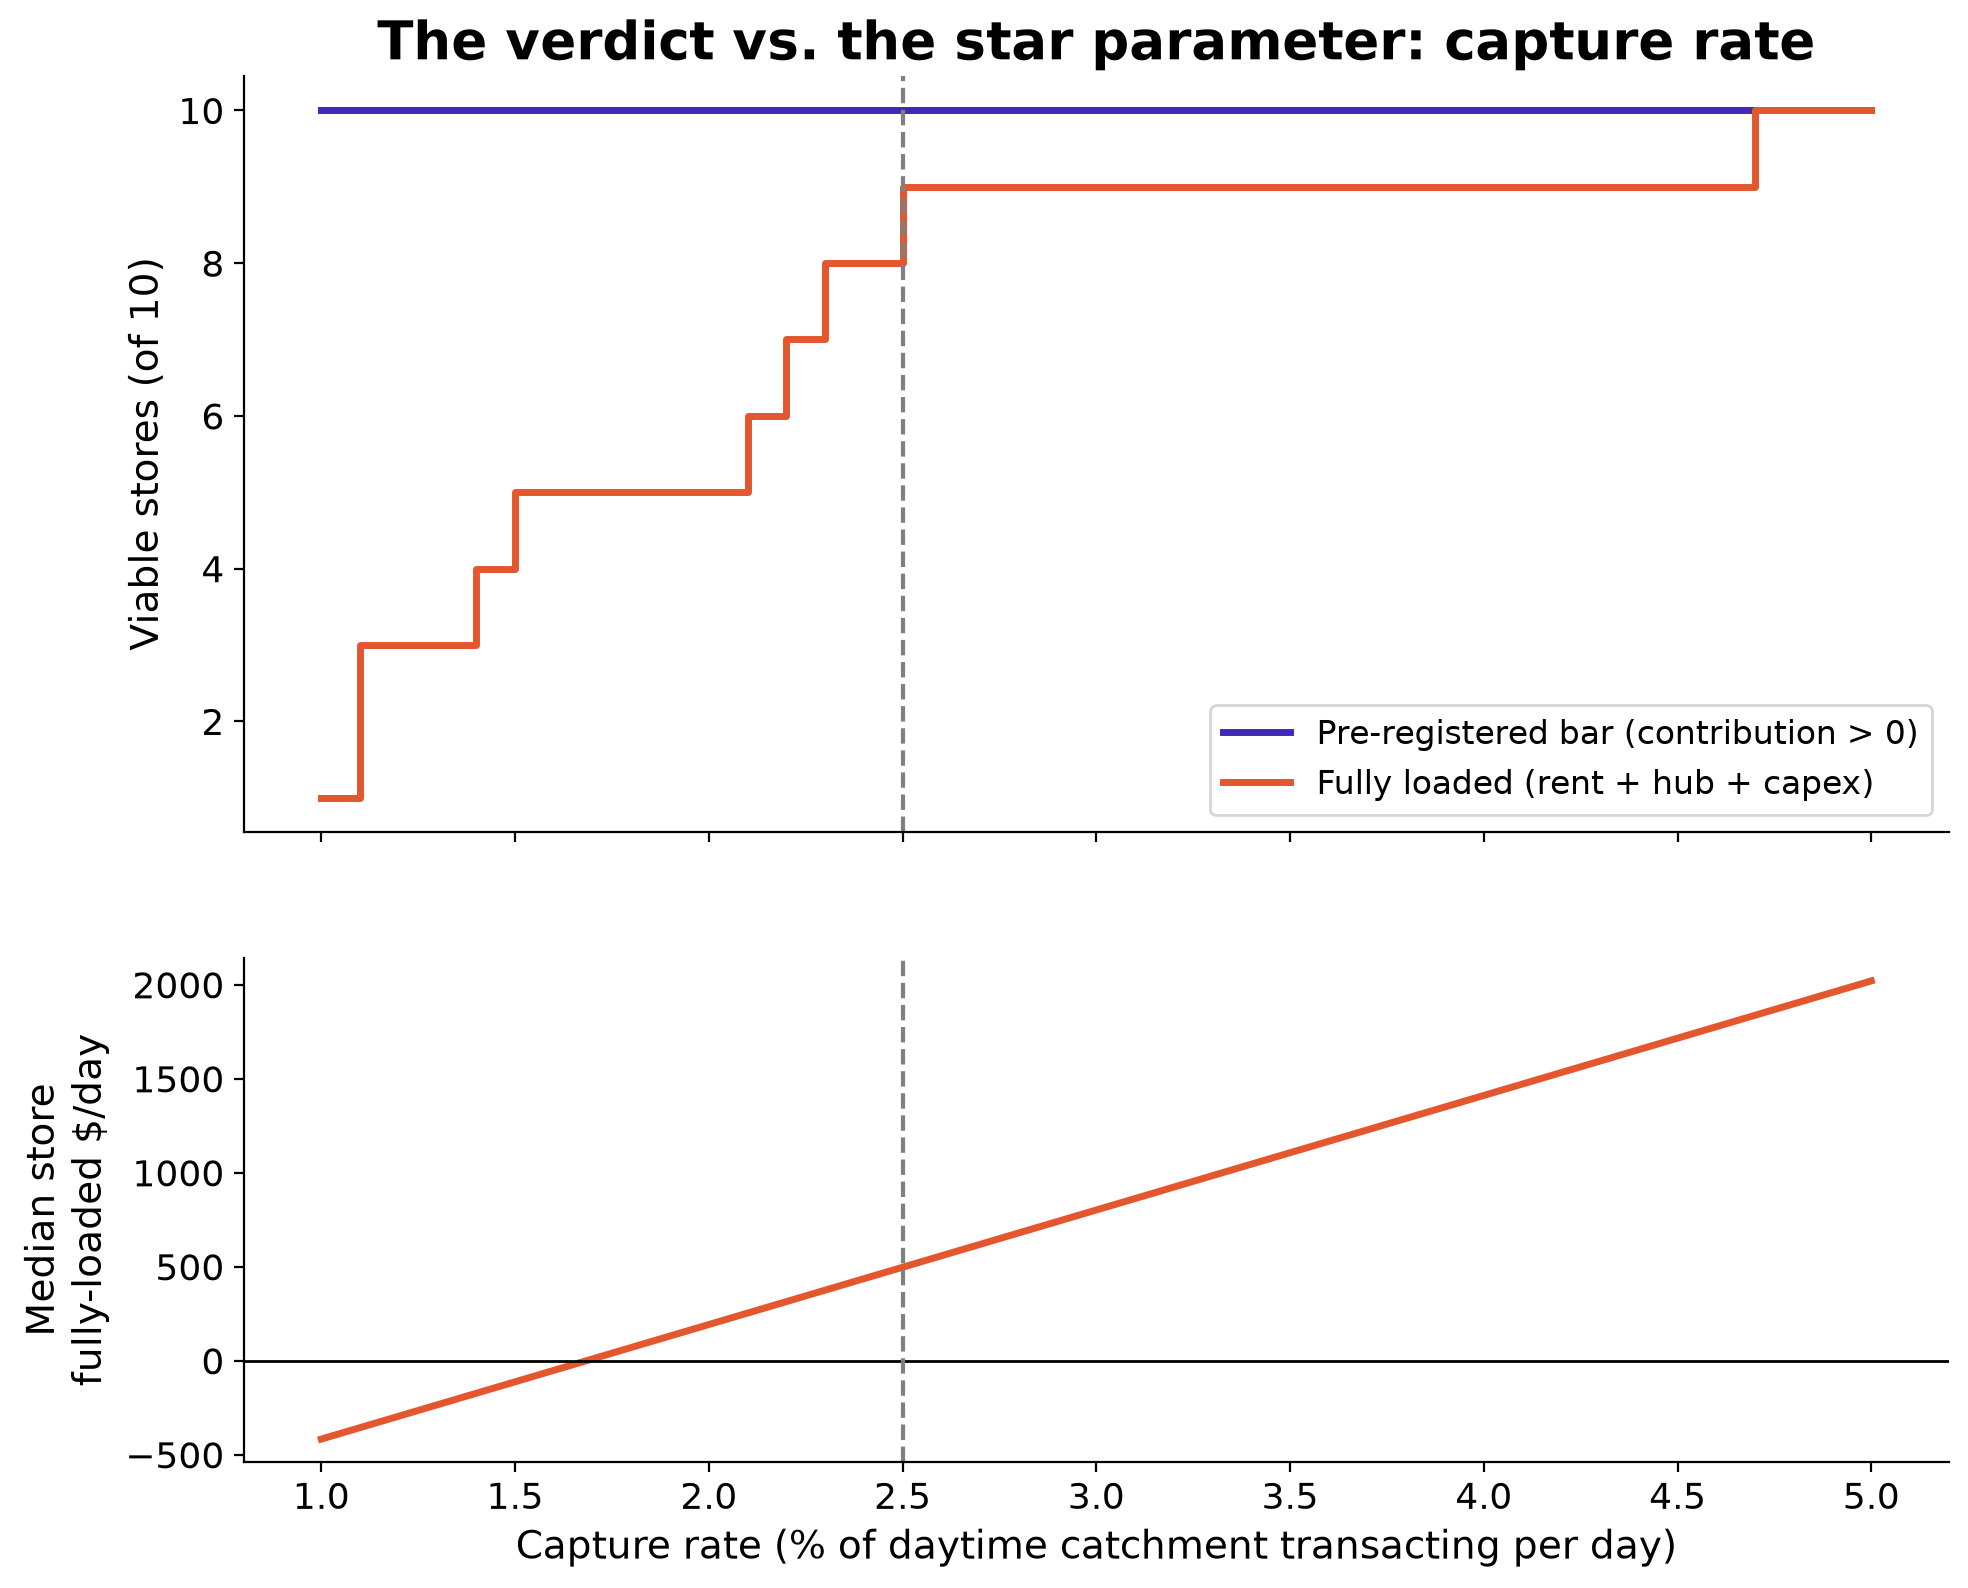
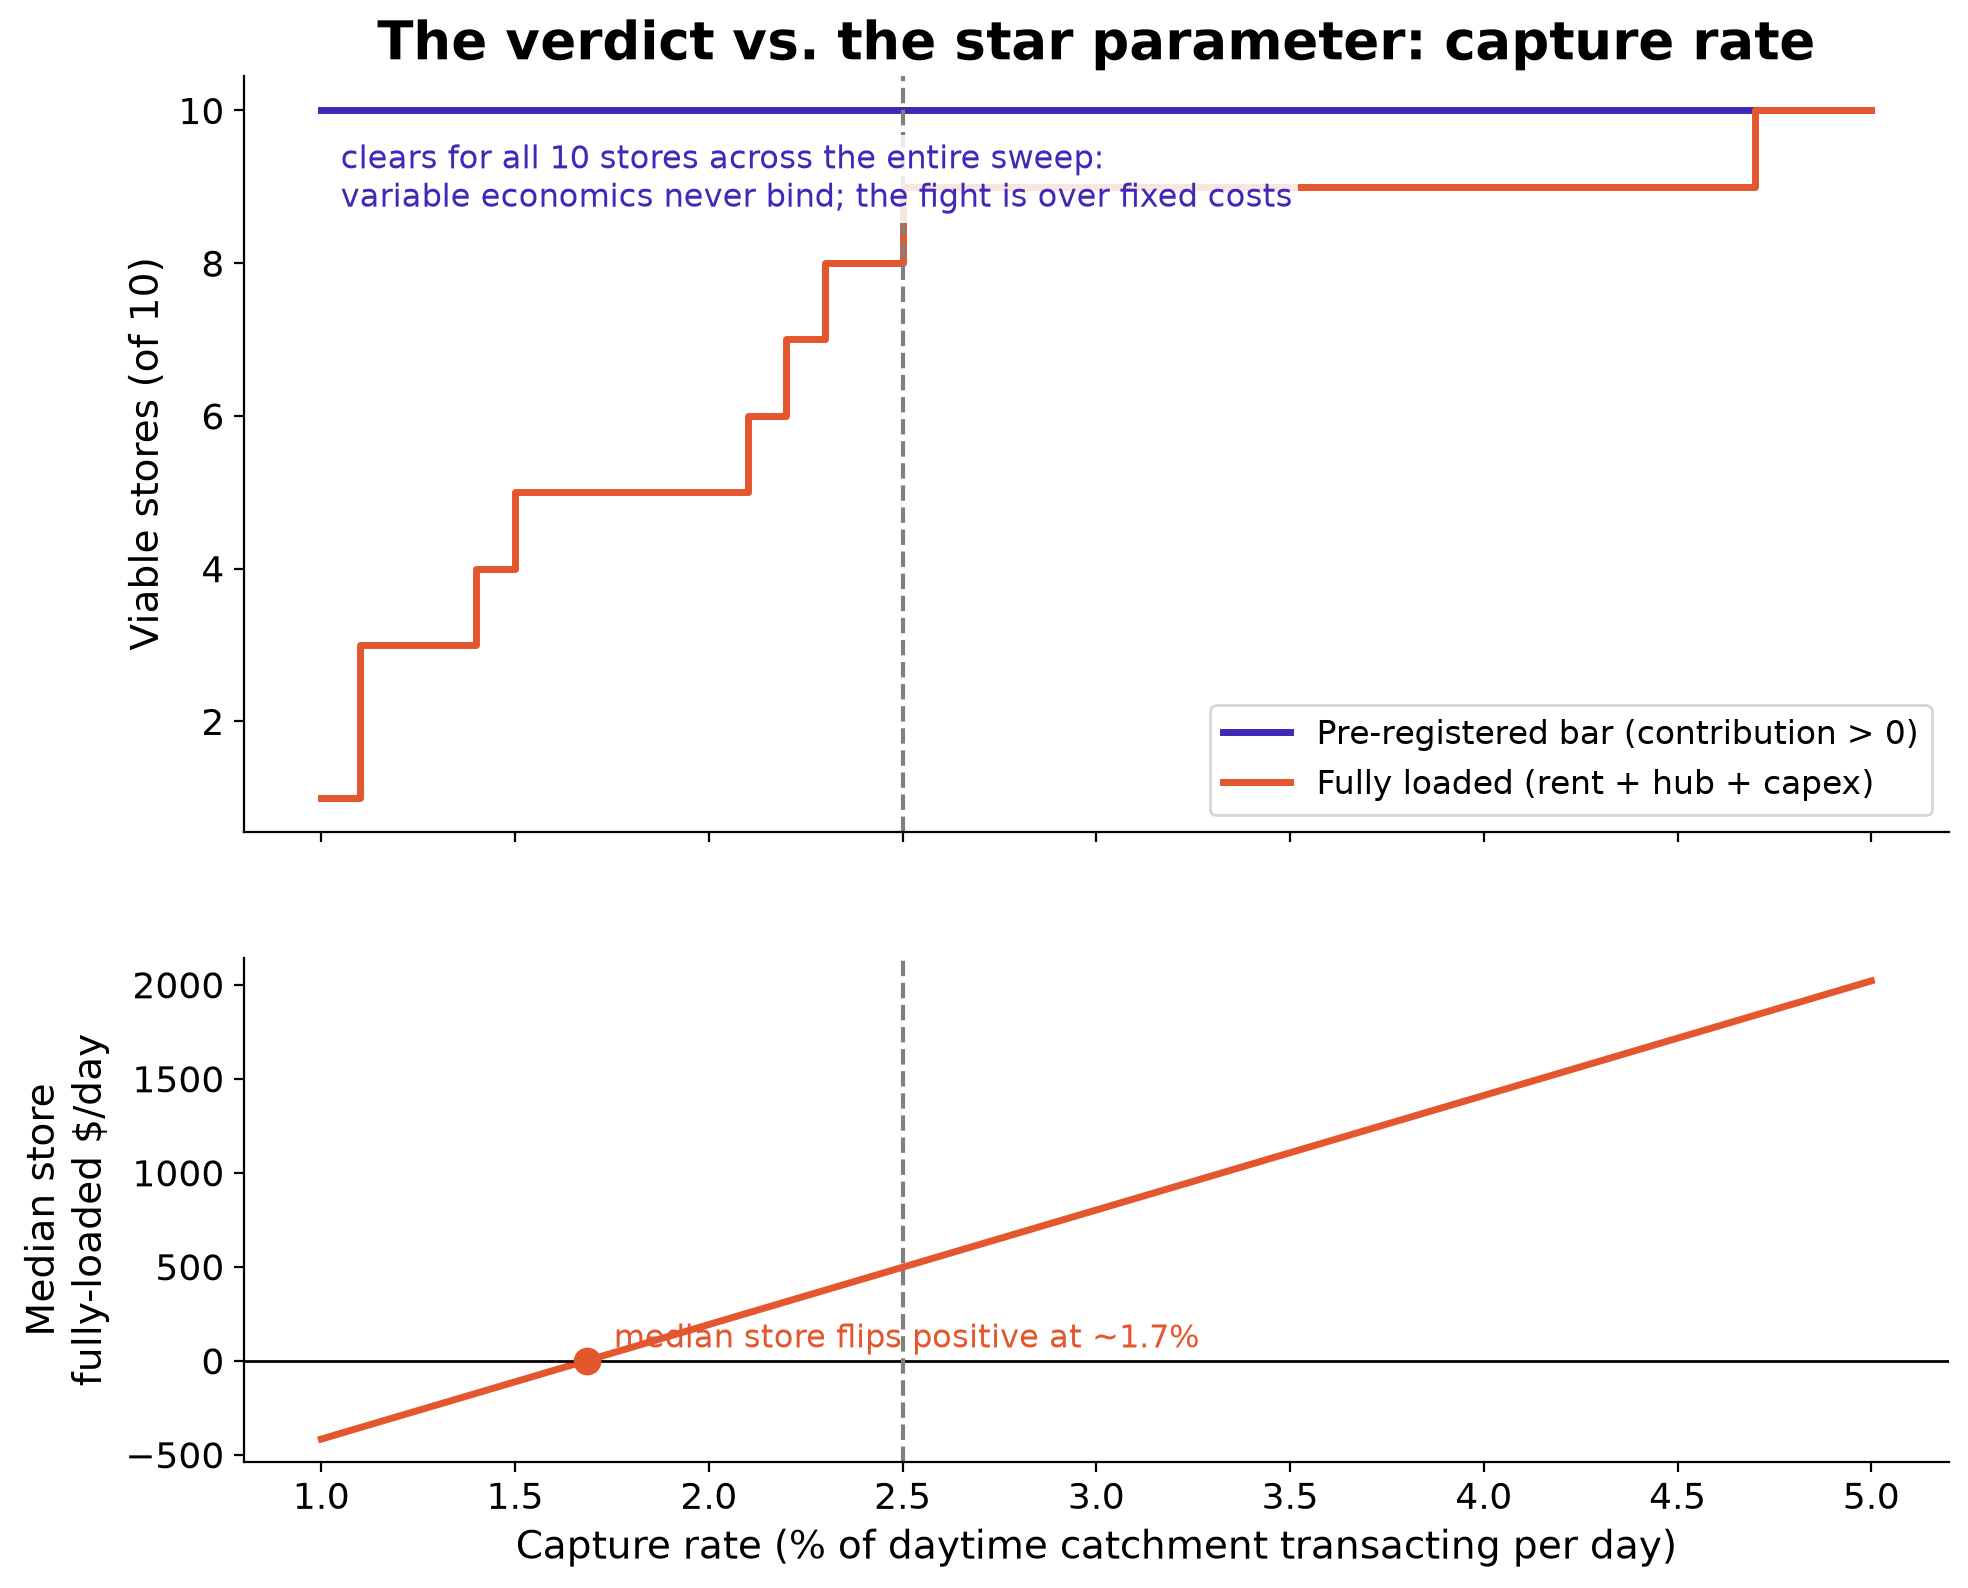
Annotate the verdict chart so it reads cold
The flat contribution line is a finding (variable economics never bind;
fixed costs decide feasibility) but looked like a bug to a first-time
viewer; say so on the chart. Also mark the ~1.7% median flip point and
label the baseline line with its value.

Changed region(s): [[0.186, 0.0926, 0.6509, 0.1543], [0.279, 0.8331, 0.6199, 0.864]]

diff --git a/src/viz/plots.py b/src/viz/plots.py
@@ -260,8 +260,18 @@ def plot_capture_sensitivity(cap, baseline, output_path=None):
     ax1.step(x, cap["stores_fully_loaded_pos"], where="post", linewidth=2.5,
              color="#e4572e", label="Fully loaded (rent + hub + capex)")
     ax1.axvline(baseline * 100, color="gray", linestyle="--", linewidth=1.5)
-    ax1.annotate("baseline", (baseline * 100, ax1.get_ylim()[1] * 0.05),
+    ax1.annotate(f"baseline {baseline * 100:.1f}%",
+                 (baseline * 100, ax1.get_ylim()[1] * 0.05),
                  rotation=90, fontsize=11, color="gray", ha="right")
+    bar = cap["stores_clearing_bar"]
+    if bar.nunique() == 1:
+        # the flat line is a finding, not a bug -- say so on the chart itself
+        ax1.annotate(
+            f"clears for all {bar.iloc[0]} stores across the entire sweep:\n"
+            "variable economics never bind; the fight is over fixed costs",
+            (x.iloc[0] + 0.05, bar.iloc[0] - 0.4), fontsize=11.5,
+            color=BAR_COLOR, va="top", zorder=6,
+            bbox=dict(facecolor="white", edgecolor="none", alpha=0.85, pad=2))
     ax1.set_ylabel("Viable stores (of 10)")
     ax1.set_title("The verdict vs. the star parameter: capture rate")
     ax1.legend(loc="lower right", fontsize=12)
@@ -269,6 +279,15 @@ def plot_capture_sensitivity(cap, baseline, output_path=None):
     ax2.plot(x, cap["median_fully_loaded"], color="#e4572e", linewidth=2.5)
     ax2.axhline(0, color="black", linewidth=1)
     ax2.axvline(baseline * 100, color="gray", linestyle="--", linewidth=1.5)
+    med, xs = cap["median_fully_loaded"].tolist(), x.tolist()
+    for i in range(1, len(med)):
+        if med[i - 1] < 0 <= med[i]:
+            frac = -med[i - 1] / (med[i] - med[i - 1])
+            flip = xs[i - 1] + frac * (xs[i] - xs[i - 1])
+            ax2.plot([flip], [0], "o", color="#e4572e", markersize=9, zorder=5)
+            ax2.annotate(f"median store flips positive at ~{flip:.1f}%",
+                         (flip + 0.07, 70), fontsize=11.5, color="#e4572e")
+            break
     ax2.set_xlabel("Capture rate (% of daytime catchment transacting per day)")
     ax2.set_ylabel("Median store\nfully-loaded $/day")
 